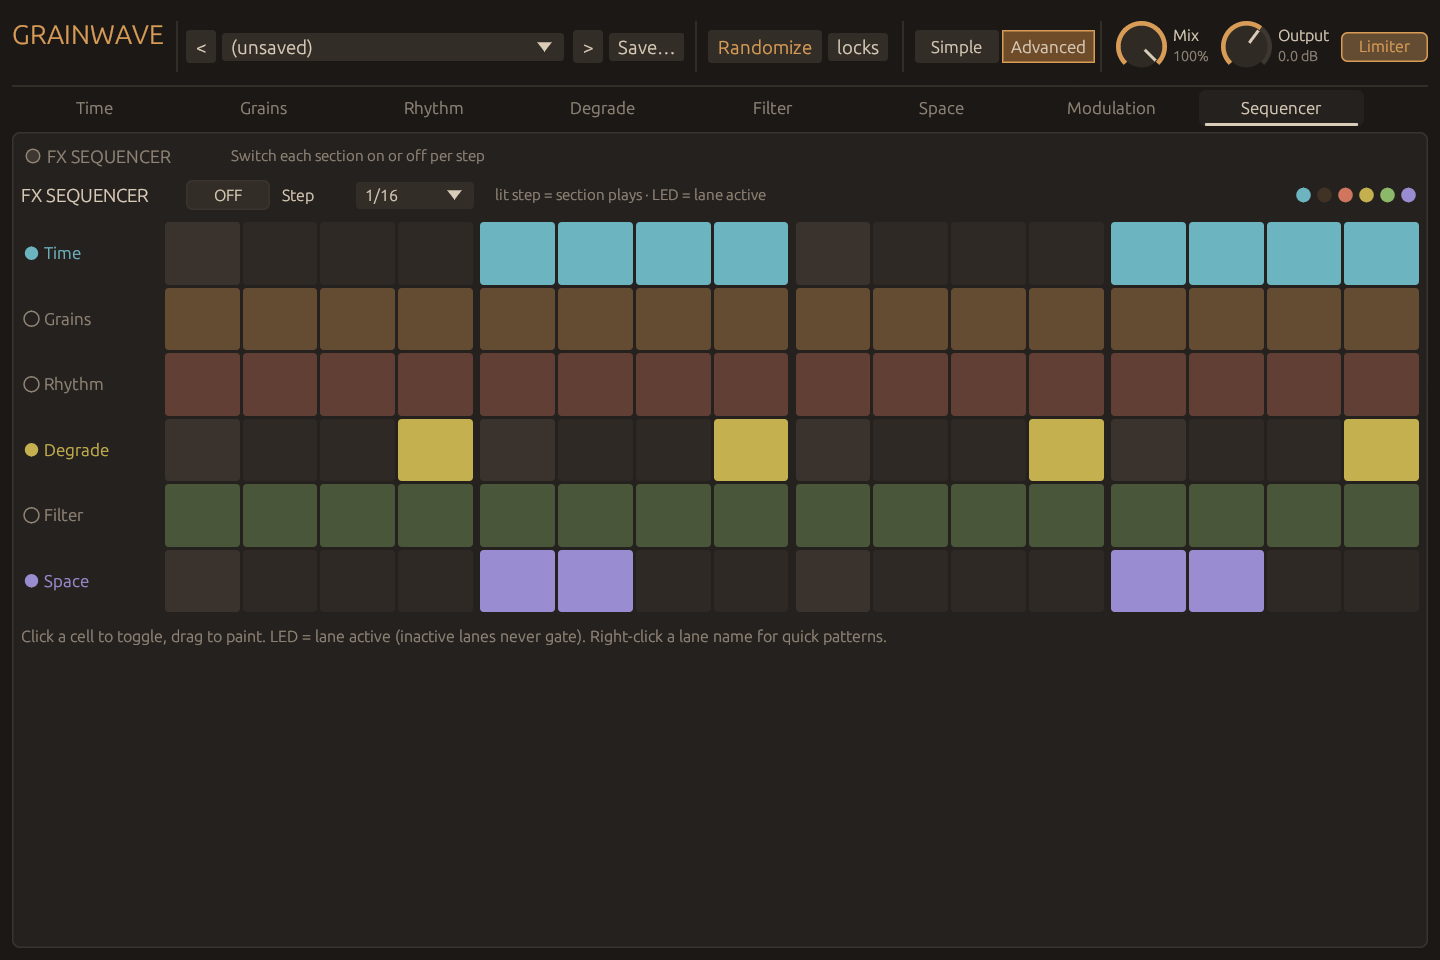
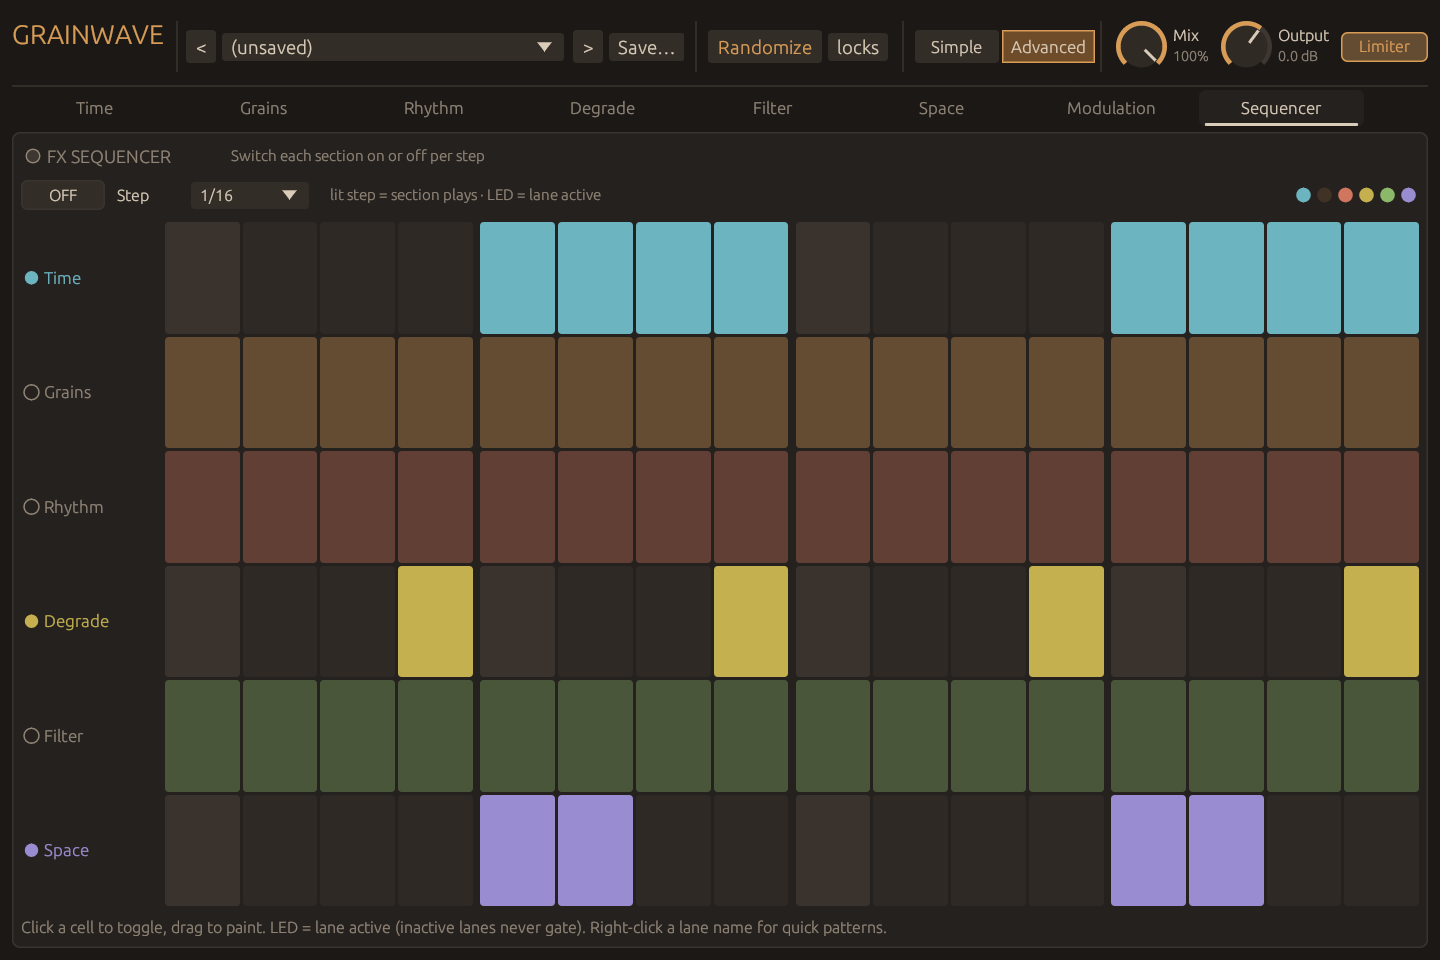
fix(ui): single title and full-height grid on the Advanced Sequencer tab
The Advanced > Sequencer tab painted "FX SEQUENCER" twice (tab header power
switch and the shared sequencer header) and capped the grid at 260 px, leaving
the lower half of the tab empty. seq_header now takes a `title` flag (false on
the Advanced tab) and the grid fills the tab down to the help line, with rows
capped at 90 px.

Adds a headless test that counts painted "FX SEQUENCER" strings and checks the
grid reaches the bottom of the tab; regenerates advanced-sequencer.png.

diff --git a/src/editor/mod.rs b/src/editor/mod.rs
@@ -425,6 +425,50 @@ mod tests {
         }
     }
 
+    /// Renders one pass and returns every text string painted.
+    fn painted_texts(w: f32, h: f32, state: &mut EditorState) -> Vec<String> {
+        let ctx = Context::default();
+        apply_theme(&ctx);
+        let params = GrainwaveParams::default();
+        let visual = VisualState::default();
+        let gui = NullContext;
+        let setter = ParamSetter::new(&gui);
+        let mut out = None;
+        for _ in 0..2 {
+            let input = RawInput {
+                screen_rect: Some(Rect::from_min_size(Pos2::ZERO, vec2(w, h))),
+                ..Default::default()
+            };
+            out = Some(ctx.run(input, |ctx| {
+                egui::CentralPanel::default().frame(egui::Frame::NONE).show(ctx, |ui| {
+                    draw(ui, &params, &visual, &setter, state);
+                });
+            }));
+        }
+        out.unwrap()
+            .shapes
+            .iter()
+            .filter_map(|c| match &c.shape {
+                egui::Shape::Text(t) => Some(t.galley.text().to_string()),
+                _ => None,
+            })
+            .collect()
+    }
+
+    #[test]
+    fn advanced_sequencer_tab_has_one_title_and_fills_the_tab() {
+        for (w, h) in [(MIN_W, MIN_H), (960.0, 640.0)] {
+            let mut state = EditorState { page: Page::Advanced, tab: Tab::Sequencer, ..Default::default() };
+            let titles = painted_texts(w, h, &mut state).iter().filter(|t| t.as_str() == "FX SEQUENCER").count();
+            assert_eq!(titles, 1, "at {w}x{h}: \"FX SEQUENCER\" painted {titles} times");
+            let widgets = render(w, h, &mut state);
+            let grid = widgets.iter().find(|(id, _)| *id == egui::Id::new("seq_grid")).expect("sequencer grid").1;
+            // Bottom of the window minus margin, panel padding and the help line.
+            let room = h - MARGIN - PAD - 22.0;
+            assert!(grid.bottom() > room - 2.0, "at {w}x{h}: grid ends at {} of {room}", grid.bottom());
+        }
+    }
+
     #[test]
     fn tiny_window_does_not_panic() {
         let mut state = EditorState::default();

diff --git a/src/editor/simple.rs b/src/editor/simple.rs
@@ -214,16 +214,21 @@ fn seq_panel(ui: &mut Ui, rect: Rect, p: &GrainwaveParams, visual: &VisualState,
     panel_frame(ui, rect);
     let inner = rect.shrink(PAD);
     let header = Rect::from_min_size(inner.min, vec2(inner.width(), HEADER_H));
-    seq_header(ui, header, p, visual, s);
+    seq_header(ui, header, p, visual, s, true);
     let grid = Rect::from_min_max(pos2(inner.left(), header.bottom() + 4.0), inner.max);
     sequencer_grid(ui, grid, p, visual, &mut state.seq);
 }
 
-/// Title, run switch, step rate and live stage gains. Shared with the Advanced sequencer tab.
-pub fn seq_header(ui: &mut Ui, header: Rect, p: &GrainwaveParams, visual: &VisualState, s: &ParamSetter) {
+/// Title, run switch, step rate and live stage gains. Shared with the Advanced sequencer tab,
+/// which passes `title = false` because its tab header already names the section.
+pub fn seq_header(ui: &mut Ui, header: Rect, p: &GrainwaveParams, visual: &VisualState, s: &ParamSetter, title: bool) {
     let painter = ui.painter_at(header);
-    painter.text(header.left_center(), Align2::LEFT_CENTER, "FX SEQUENCER", FontId::proportional(12.5), TEXT);
-    let x0 = header.left() + 110.0;
+    let x0 = if title {
+        painter.text(header.left_center(), Align2::LEFT_CENTER, "FX SEQUENCER", FontId::proportional(12.5), TEXT);
+        header.left() + 110.0
+    } else {
+        header.left()
+    };
     let run = Rect::from_min_size(pos2(x0, header.top()), vec2(56.0, header.height()));
     let label = if p.sequencer.enabled.value() { "RUN" } else { "OFF" };
     toggle(ui, run, &p.sequencer.enabled, s, label, ACCENT);

diff --git a/src/editor/advanced.rs b/src/editor/advanced.rs
@@ -144,13 +144,18 @@ pub fn advanced_page(ui: &mut Ui, rect: Rect, p: &GrainwaveParams, visual: &Visu
         }
         Tab::Modulation => modulation_tab(ui, content, p, visual, s),
         Tab::Sequencer => {
+            // The tab header already shows the "FX SEQUENCER" title and power switch, so the
+            // sequencer header here only carries Run, Step and the gain dots.
             let head = Rect::from_min_size(content.min, vec2(content.width(), HEADER_H));
-            seq_header(ui, head, p, visual, s);
-            let grid_h = (content.height() - HEADER_H - 40.0).min(260.0);
-            let grid = Rect::from_min_size(pos2(content.left(), head.bottom() + 8.0), vec2(content.width(), grid_h));
+            seq_header(ui, head, p, visual, s, false);
+            let help_h = 22.0;
+            let grid_top = head.bottom() + 8.0;
+            // Fill the tab (rows up to 90 px tall) instead of leaving the lower half empty.
+            let grid_h = (content.bottom() - help_h - grid_top).clamp(0.0, 6.0 * 90.0 + 10.0);
+            let grid = Rect::from_min_size(pos2(content.left(), grid_top), vec2(content.width(), grid_h));
             sequencer_grid(ui, grid, p, visual, &mut state.seq);
             ui.painter_at(content).text(
-                pos2(content.left(), grid.bottom() + 10.0),
+                pos2(content.left(), grid.bottom() + 8.0),
                 Align2::LEFT_TOP,
                 "Click a cell to toggle, drag to paint. LED = lane active (inactive lanes never gate). \
                  Right-click a lane name for quick patterns.",
